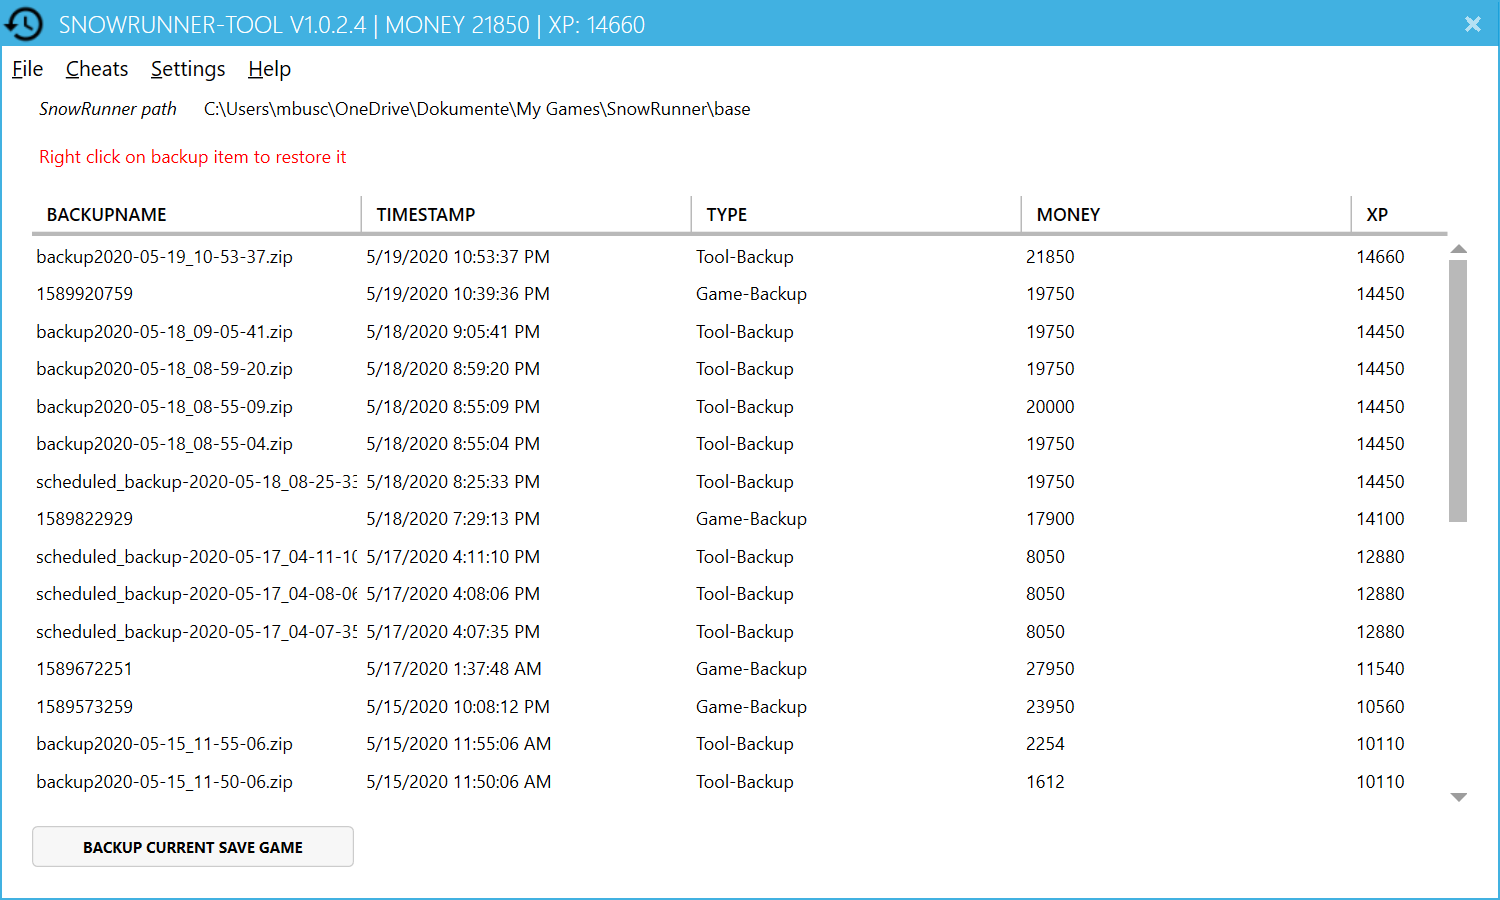
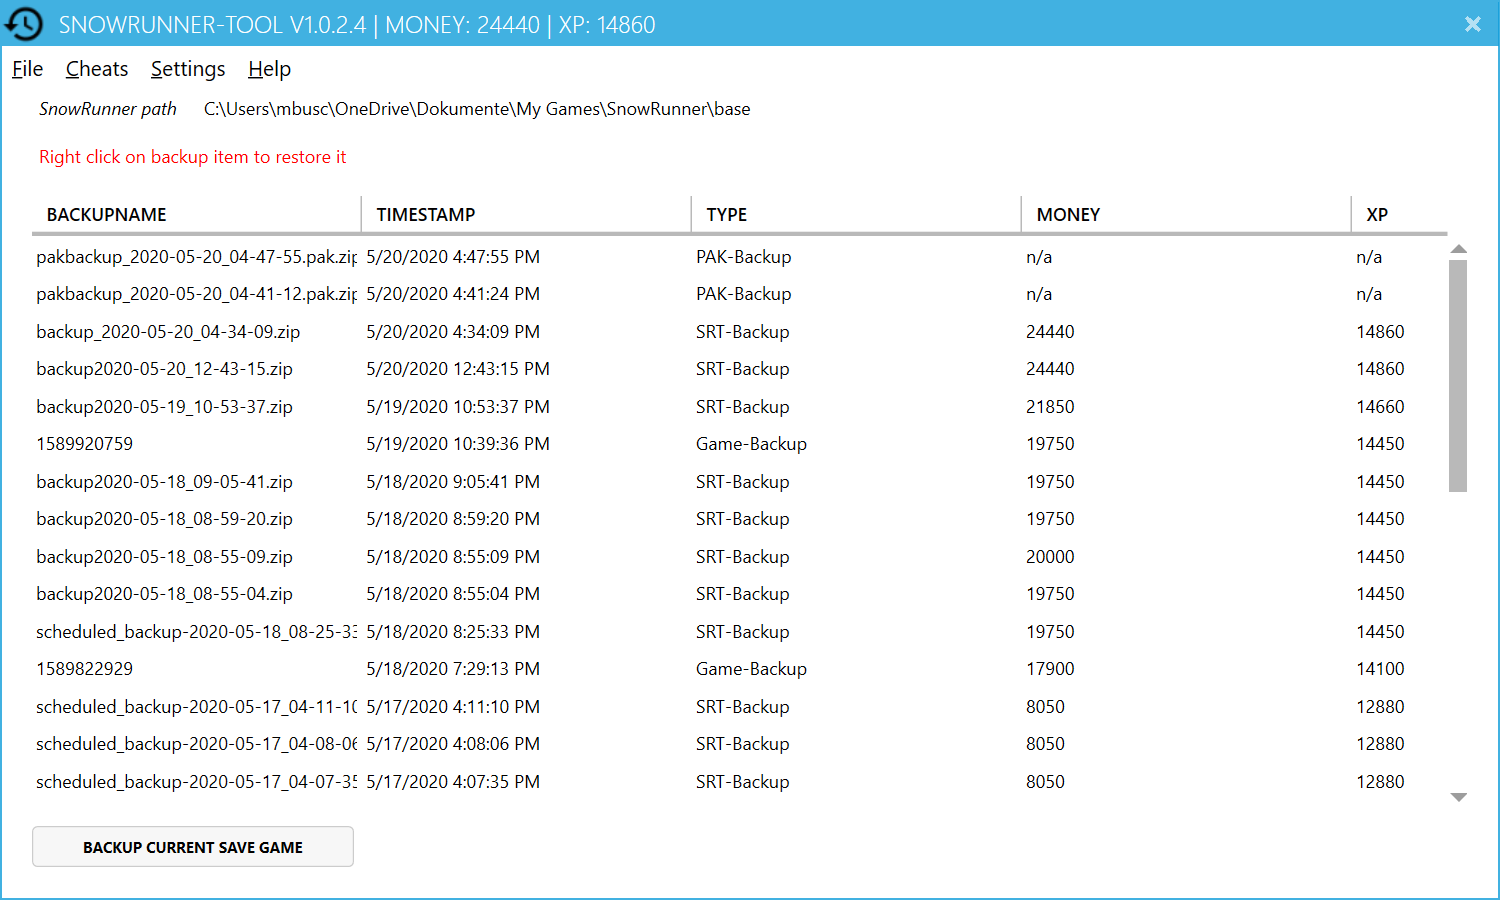
Add pak backups to list

diff --git a/SnowRunner-Tool/backups.cs b/SnowRunner-Tool/backups.cs
@@ -40,10 +40,13 @@ namespace SnowRunner_Tool
         /// Load backups made by SnorRunner-Tool and 3rd party zipped backups
         /// </summary>
         /// <returns></returns>
-        public static List<Backup> GetOtherBackups(string directory, string backupType)
+        public static List<Backup> GetOtherBackups(string directory)
         {
-            Log.Debug("getOtherBackups: {OtherBackupDirectory} / {BackupType}", directory, backupType);
+            Log.Debug("getOtherBackups: {OtherBackupDirectory}", directory);
             List<Backup> backups = new List<Backup>();
+            string backupType = string.Empty;
+            string sgMoney = string.Empty;
+            string sgXp = string.Empty;
             if (Directory.Exists(directory))
             {
                 string[] fileEntries = Directory.GetFiles(directory);
@@ -51,14 +54,32 @@ namespace SnowRunner_Tool
                 foreach (string f in fileEntries)
                 {
                     string fName = new FileInfo(f).Name;
-                    DateTime timestamp = File.GetCreationTime(f);
-                    string tmpSaveGameFile = CheatGame.UnzipToTemp(f);
-                    if (File.Exists(tmpSaveGameFile))
+                    if (fName.EndsWith(".pak.zip", StringComparison.OrdinalIgnoreCase))
                     {
-                        string sgMoney = CheatGame.GetMoney(tmpSaveGameFile);
-                        string sgXp = CheatGame.GetXp(tmpSaveGameFile);
-                        backups.Add(new Backup() { BackupName = fName, Timestamp = timestamp, Type = backupType, Money = sgMoney, Xp = sgXp });
+                        backupType = "PAK-Backup";
                     }
+                    else
+                    {
+                        backupType = "SRT-Backup";
+                    }
+                    DateTime timestamp = File.GetCreationTime(f);
+                    if (string.Equals(backupType, "SRT-Backup"))
+                    {
+                        string tmpSaveGameFile = CheatGame.UnzipToTemp(f);
+                        if (File.Exists(tmpSaveGameFile))
+                        {
+                            sgMoney = CheatGame.GetMoney(tmpSaveGameFile);
+                            sgXp = CheatGame.GetXp(tmpSaveGameFile);
+                        }
+                        
+                    }
+                    else
+                    // PAK backup
+                    {
+                            sgMoney = "n/a";
+                            sgXp = "n/a";
+                    }
+                    backups.Add(new Backup() { BackupName = fName, Timestamp = timestamp, Type = backupType, Money = sgMoney, Xp = sgXp });
                 }
                 return backups;
             }

diff --git a/SnowRunner-Tool/MainWindow.xaml.cs b/SnowRunner-Tool/MainWindow.xaml.cs
@@ -217,7 +217,7 @@ namespace SnowRunner_Tool
             // Add SnowRunner backup directories
             var allBackups = Backup.GetBackups(SRBackupDir);
             // Add own zipped backups
-            allBackups.AddRange(Backup.GetOtherBackups(MyBackupDir, "Tool-Backup"));
+            allBackups.AddRange(Backup.GetOtherBackups(MyBackupDir));
                         
             if (allBackups.Count > 0)
             {
@@ -247,8 +247,16 @@ namespace SnowRunner_Tool
             {
                 backupSource = MyBackupDir + @"\" + restoreItem.BackupName;
             }
-            Backup.BackupCurrentSavegame(SRSaveGameDir, MyBackupDir);
-            Backup.RestoreBackup(backupSource, SRSaveGameDir);
+            
+            if (string.Equals(restoreItem.Type, "PAK-Backup"))
+            {
+
+            }
+            else
+            {
+                Backup.BackupCurrentSavegame(SRSaveGameDir, MyBackupDir);
+                Backup.RestoreBackup(backupSource, SRSaveGameDir);
+            }
             _ = MetroMessage("Next time better luck", "The selected saved game has been restored. A backup of your former save game has been saved.");
             ReadBackups();
         }
@@ -523,6 +531,7 @@ namespace SnowRunner_Tool
             if (File.Exists(f))
             {
                 string zipFileName = Backup.BackupSingleFile(f, MyBackupDir, "pakbackup");
+                ReadBackups();
             }
             else
             {
